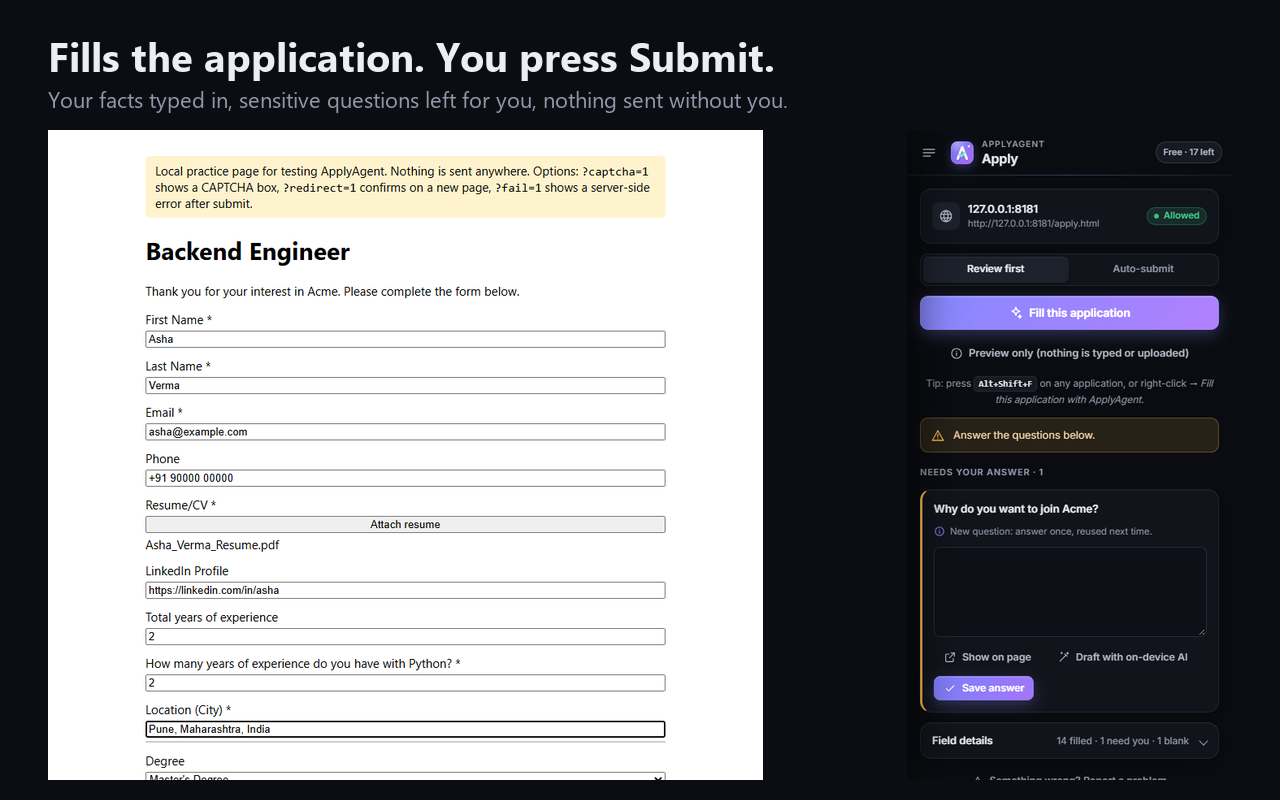
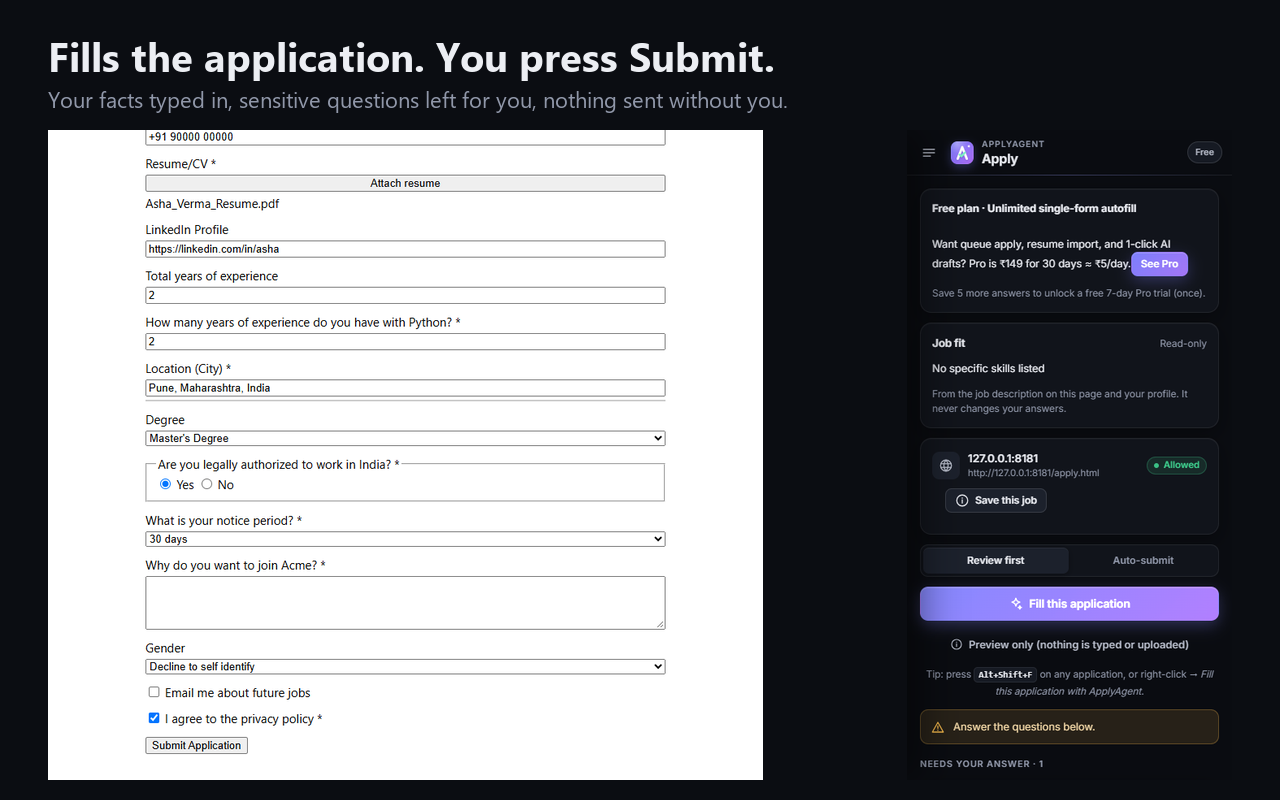
feat(p4/step11): update store package, listing, screenshots, and final test suite verification (Step 11)

Changed region(s): [[0.0938, 0.1562, 0.5312, 0.9688], [0.7188, 0.25, 0.9688, 0.9688], [0.9062, 0.1875, 0.9375, 0.2188]]

diff --git a/src/content/classify.ts b/src/content/classify.ts
@@ -6,7 +6,7 @@ import {
 } from "../shared/types";
 import { bestOption, normalize, sameQuestionScore, yesNoOption } from "../shared/text";
 import { parseRequirement } from "../shared/requirements";
-import { hasExceptionClause, isCompanyOrPlaceSpecific, questionPolarity, sameScreeningQuestion } from "../shared/screening";
+import { hasExceptionClause, isCompanyOrPlaceSpecific, questionPolarity, sameScreeningQuestion, screeningKey } from "../shared/screening";
 import { factDecision, hasConfirmedApplication, HEARD_ABOUT, isAppliedBeforeQuestion, isStartImmediatelyQuestion, isPreviousEmployeeQuestion, previousEmployerAnswer, isWorkModeQuestion, workModeAnswer, isTravelQuestion, travelAnswer, isLanguageQuestion, languageAnswer, skillsExperienceAnswer, type PageFacts } from "./facts";
 
 /** Secrets and one-time codes: payment cards, passwords, PINs, one-time codes, security questions, captchas and
@@ -44,7 +44,7 @@ const SENSITIVE: Array<[SensitiveTopic, RegExp]> = [
   ["veteran", /veteran|military|armed forces/],
   ["accommodation", /\baccommodat|ajustements?|adjustments? (to|during|for)|recursos ou adaptacoes|necessidade de acessibilidade/],
   ["disability", /disabilit|behinderung|schwerbehindert|handicap|discapacidad|deficiencia|disabile/],
-  ["age", /geburtsdatum|\balter\b|date de naissance|fecha de nacim(i)?ento|\bedad\b|data de nascimento|\bidade\b|data di nascita|geboortedatum|date of birth|\bdob\b|\bage\b|birth ?date|18 years of age|18 years old|over the age of 18|current age|how old are you|what is your age/],
+  ["age", /geburtsdatum|\balter\b|date de naissance|fecha de nacim(i)?ento|\bedad\b|data de nascimento|\bidade\b|data di nascita|geboortedatum|date of birth|\bdob\b|\bage\b|birth ?date|18 years of age|18 years old|over the age of 18|18 or older|current age|how old are you|what is your age/],
   ["criminal", /vorstrafe|fuhrungszeugnis|casier judiciaire|antecedentes penales|antecedentes criminais|casellario|convict|criminal|felony|background check/],
   ["consent", /datenschutz|einwilligung|ich (stimme|akzeptiere|bestatige|willige)|\bj accepte\b|je (certifie|consens|confirme)|confidentialite|\bacepto\b|consiento|privacidad|\baceito\b|\bconcordo\b|privacidade|\bacconsento\b|ik ga akkoord|\brgpd\b|\bdsgvo\b|\bi (certify|agree|acknowledge|consent|confirm|understand)\b|privacy (policy|notice)|terms (of|and)|data processing|gdpr/],
 ];
@@ -243,16 +243,19 @@ export function findAnswer(
     }
 
     // 2. Number trap: match numbers/years/hours
-    const reqEntry = parseRequirement(entry.question);
-    const reqLabel = parseRequirement(label);
-    if (reqEntry && reqLabel) {
-      if (reqEntry.unit !== reqLabel.unit || reqEntry.min !== reqLabel.min || reqEntry.max !== reqLabel.max) continue;
-    } else if ((reqEntry && !reqLabel) || (!reqEntry && reqLabel)) {
-      continue;
-    } else {
-      const numsEntry = (entry.question.match(/\b\d+\b/g) || []).join(",");
-      const numsLabel = (label.match(/\b\d+\b/g) || []).join(",");
-      if (numsEntry && numsLabel && numsEntry !== numsLabel) continue;
+    const isAgeQuestion = screeningKey(entry.question) === "age_18" && screeningKey(label) === "age_18";
+    if (!isAgeQuestion) {
+      const reqEntry = parseRequirement(entry.question);
+      const reqLabel = parseRequirement(label);
+      if (reqEntry && reqLabel) {
+        if (reqEntry.unit !== reqLabel.unit || reqEntry.min !== reqLabel.min || reqEntry.max !== reqLabel.max) continue;
+      } else if ((reqEntry && !reqLabel) || (!reqEntry && reqLabel)) {
+        continue;
+      } else {
+        const numsEntry = (entry.question.match(/\b\d+\b/g) || []).join(",");
+        const numsLabel = (label.match(/\b\d+\b/g) || []).join(",");
+        if (numsEntry && numsLabel && numsEntry !== numsLabel) continue;
+      }
     }
 
     // Degree level check (Bachelor's vs Master's vs PhD / Doctorate vs GED)
@@ -471,6 +474,9 @@ export function profileKeyFor(field: FieldDescriptor): ProfileKey | "fullName" |
 }
 
 export function decide(field: FieldDescriptor, profile: Profile, answers: AnswerEntry[], page?: PageFacts): Decision {
+  if (field.translatedLabel) {
+    field = { ...field, label: field.translatedLabel, originalLabel: field.label };
+  }
   const topic = sensitiveTopic(field);
   // Identity numbers, secrets and signatures: the user types them on the page; optional ones stay blank. Checked
   // before anything reads the answer bank, so a stored answer can never be filled into one.
@@ -490,7 +496,12 @@ export function decide(field: FieldDescriptor, profile: Profile, answers: Answer
           val = yesNoOption(field.options, entry.answer) ?? bestOption(field.options, entry.answer);
         }
       }
-      if (val) return { kind: "answer", value: val, question: entry.question, reused: true };
+      if (val) {
+        const isExact = normalize(entry.question) === normalize(field.label);
+        return isExact
+          ? { kind: "answer", value: val, question: entry.question }
+          : { kind: "answer", value: val, question: entry.question, reused: true };
+      }
     }
     const quick = factDecision(field, profile, "notice_period", page);
     return quick ?? { kind: "ask", reason: "sensitive", topic: "notice_period" };
@@ -517,7 +528,10 @@ export function decide(field: FieldDescriptor, profile: Profile, answers: Answer
         if (match) val = match;
         else return { kind: "ask", reason: "unknown" };
       }
-      return { kind: "answer", value: val, question: entry.question, reused: true };
+      const isExact = normalize(entry.question) === normalize(field.label);
+      return isExact
+        ? { kind: "answer", value: val, question: entry.question }
+        : { kind: "answer", value: val, question: entry.question, reused: true };
     }
     // The user's quick answers, only where the question clearly is that question (see facts.ts).
     const someoneElse = OTHER_PERSON.test(normalize(field.label)) || SOMEONE_ELSES.test(field.label)

diff --git a/src/sidepanel/index.ts b/src/sidepanel/index.ts
@@ -535,8 +535,8 @@ interface CardContext {
 }
 
 const NEVER_TEXT: Record<string, string> = {
-  identity: "ID numbers: enter yourself on page.",
-  signature: "Signature: please sign on the page.",
+  identity: "never stores or types ID numbers",
+  signature: "never signs for you",
 };
 
 function questionCard(r: FieldResult, ctx: CardContext): HTMLDivElement {
@@ -547,7 +547,7 @@ function questionCard(r: FieldResult, ctx: CardContext): HTMLDivElement {
   const appliedBefore = isAppliedBeforeQuestion(r.field.label);
   const onPageOnly = youOnly || upload || appliedBefore;
   const why = youOnly ? NEVER_TEXT[topic!]!
-    : upload ? "Attach this file on the page."
+    : upload ? "Attach this file yourself on page."
       : appliedBefore ? "Company-specific: answer on the page."
         : sensitive ? "Sensitive question: only you answer this."
           : r.decision.kind === "ask" && r.decision.reason === "missing_profile_value" ? "Missing from your saved profile."
@@ -2137,13 +2137,13 @@ async function renderPlan(): Promise<void> {
     meter.style.width = "100%";
     meter.parentElement!.classList.remove("low");
   } else {
-    $("plan-status").textContent = `Free · ${left} of ${FREE_MONTHLY_SUBMISSIONS} applications left this month`;
-    pill.textContent = `Free · ${left} left`;
+    $("plan-status").textContent = "Free · Unlimited single-form autofill";
+    pill.textContent = "Free";
     pill.className = "plan-pill";
-    badge.textContent = left ? "Free" : "Limit reached";
-    badge.className = `chip ${left ? "" : "warn"}`;
-    meter.style.width = `${(left / FREE_MONTHLY_SUBMISSIONS) * 100}%`;
-    meter.parentElement!.classList.toggle("low", left <= 5);
+    badge.textContent = "Free";
+    badge.className = "chip";
+    meter.style.width = "100%";
+    meter.parentElement!.classList.remove("low");
   }
   $("buy-row").hidden = !licensingConfigured();
   const { licenseKey } = await chrome.storage.local.get("licenseKey");

diff --git a/e2e/queue.spec.ts b/e2e/queue.spec.ts
@@ -60,18 +60,13 @@ test("a job that needs the user keeps its tab open with a clear note", async ({ 
   expect(context.pages().some((p) => p.url().includes("apply.html"))).toBe(true);
 });
 
-test("the free plan stops at 20 applications a month and says so", async ({ ext, context }) => {
+test("the free plan gates background queue behind Pro and says so", async ({ ext, context }) => {
   await setup(ext, ANSWERS);
-  const thisMonth = new Date().toISOString();
-  await setStorage(ext, {
-    applications: Array.from({ length: 20 }, (_, i) => ({
-      id: `old${i}`, url: `https://example${i}.com/job`, platform: "generic", jobTitle: "Old", status: "applied_confirmed", createdAt: thisMonth,
-    })),
-  });
+  await setStorage(ext, { license: null });
   await send(ext, { type: "QUEUE_ADD", jobs: [{ url: `${BASE}/apply.html`, title: "Backend Engineer", company: "Acme" }] });
   await send(ext, { type: "QUEUE_START" });
   await expect.poll(async () => (await getStorage<QueueItem[]>(ext, "queue"))?.[0]?.note ?? "", { timeout: 15_000 })
-    .toMatch(/free plan limit/i);
+    .toMatch(/require Pro/i);
   const [item] = await getStorage<QueueItem[]>(ext, "queue");
   expect(item?.status).toBe("queued");
   expect(context.pages().some((p) => p.url().includes("apply.html"))).toBe(false);

diff --git a/e2e/autoopen.spec.ts b/e2e/autoopen.spec.ts
@@ -3,7 +3,7 @@
 
 import type { Page } from "@playwright/test";
 import type { QueueItem } from "../src/shared/types";
-import { ANSWERS, BASE, expect, getStorage, goTo, PROFILE, setStorage, test } from "./fixtures";
+import { ANSWERS, BASE, expect, getStorage, goTo, PROFILE, PRO_LICENSE, setStorage, test } from "./fixtures";
 
 async function pinTo(ext: Page, page: Page): Promise<void> {
   const tabId = await ext.evaluate(async (url) => (await chrome.tabs.query({})).find((t) => t.url === url)!.id!, page.url());
@@ -35,7 +35,7 @@ test("Preview on a job description whose Apply button opens the form on the same
 
 test("the queue opens the application from a job description link", async ({ ext }) => {
   await setStorage(ext, {
-    profile: PROFILE, answers: ANSWERS, settings: { mode: "review", maxParallel: 1, perHostMax: 1, dailyCap: 25, cooldownDays: 30 },
+    profile: PROFILE, answers: ANSWERS, license: PRO_LICENSE, settings: { mode: "review", maxParallel: 1, perHostMax: 1, dailyCap: 25, cooldownDays: 30 },
   });
   await ext.evaluate((url) => chrome.runtime.sendMessage({ type: "QUEUE_ADD", jobs: [{ url, title: "Data Engineer", company: "Acme" }] }), `${BASE}/job.html`);
   await ext.evaluate(() => chrome.runtime.sendMessage({ type: "QUEUE_START" }));

diff --git a/src/sidepanel/quick-answers.ts b/src/sidepanel/quick-answers.ts
@@ -74,7 +74,7 @@ export async function mountQuickAnswers(
   }
 
   function render(): void {
-    container.innerHTML = "";
+    container.replaceChildren();
 
     const q = QUICK_QUESTIONS[currentIndex];
     if (!q) return;
@@ -132,7 +132,11 @@ export async function mountQuickAnswers(
     const whyEl = document.createElement("p");
     whyEl.className = "hint wizard-why";
     whyEl.style.cssText = "font-size: 12px; color: var(--text-2, #94a3b8); margin-bottom: 16px;";
-    whyEl.innerHTML = `<span class="badge" style="background: var(--surface-3, #2a2e39); padding: 2px 6px; border-radius: 4px; font-weight: 500; margin-right: 6px; color: var(--text, #f1f5f9);">Why we ask</span>${q.why}`;
+    const whyBadge = document.createElement("span");
+    whyBadge.className = "badge";
+    whyBadge.style.cssText = "background: var(--surface-3, #2a2e39); padding: 2px 6px; border-radius: 4px; font-weight: 500; margin-right: 6px; color: var(--text, #f1f5f9);";
+    whyBadge.textContent = "Why we ask";
+    whyEl.append(whyBadge, document.createTextNode(q.why));
 
     body.append(promptEl, whyEl);
 

diff --git a/e2e/round3.spec.ts b/e2e/round3.spec.ts
@@ -2,7 +2,7 @@
  * (the test build allows only 127.0.0.1 and localhost). */
 
 import type { Page } from "@playwright/test";
-import { ANSWERS, BASE, expect, goTo, PROFILE, runIn, setStorage, test } from "./fixtures";
+import { ANSWERS, BASE, expect, goTo, PROFILE, PRO_LICENSE, runIn, setStorage, test } from "./fixtures";
 
 const NOT_ALLOWED = "http://127.0.0.2:8181";
 
@@ -129,7 +129,7 @@ test("resume autofill: the resume goes first, the site's own parsing is waited f
 
 test("the queue carries a page-per-step application to its last step", async ({ ext, context }) => {
   await setStorage(ext, {
-    profile: PROFILE, answers: ANSWERS, settings: { mode: "review", maxParallel: 1, perHostMax: 1, dailyCap: 25, cooldownDays: 30 },
+    profile: PROFILE, answers: ANSWERS, license: PRO_LICENSE, settings: { mode: "review", maxParallel: 1, perHostMax: 1, dailyCap: 25, cooldownDays: 30 },
   });
   await ext.evaluate(() => chrome.runtime.sendMessage({
     type: "QUEUE_ADD", jobs: [{ url: "http://127.0.0.1:8181/step1.html", title: "Data Engineer", company: "Acme" }],

diff --git a/e2e/sidepanel.spec.ts b/e2e/sidepanel.spec.ts
@@ -65,7 +65,7 @@ test("answers: page text is shown as text, never as markup (no script injection 
 
 test("plan: free allowance is shown", async ({ ext }) => {
   await goTo(ext, "profile");
-  await expect(ext.locator("#plan-status")).toContainText("Free · 20 of 20 applications left this month");
+  await expect(ext.locator("#plan-status")).toContainText("Free · Unlimited single-form autofill");
 });
 
 test("narrow side panel: the drawer slides in, is keyboard friendly, and closes with Esc", async ({ ext }) => {
@@ -102,6 +102,7 @@ test("apply flow through the panel's own buttons: fill, answer in the panel, sub
   await expect(ext.locator("#page-access")).toHaveText("Allowed");
 
   await ext.locator("#run").click();
+  await expect(ext.locator("#status")).not.toHaveText(/Reading the form/, { timeout: 30_000 });
   await expect(ext.locator("#status")).toContainText("Answer the questions below");
   const question = ext.locator(".question", { hasText: "Are you legally authorized to work in India?" });
   await expect(question).toContainText("Sensitive");

diff --git a/e2e/extreme.spec.ts b/e2e/extreme.spec.ts
@@ -1,7 +1,7 @@
 /** Extreme cases in real Chromium, through the panel's own UI. */
 
 import type { QueueItem } from "../src/shared/types";
-import { ANSWERS, BASE, expect, getStorage, goTo, OTHER_SITE, PROFILE, setStorage, test } from "./fixtures";
+import { ANSWERS, BASE, expect, getStorage, goTo, OTHER_SITE, PROFILE, PRO_LICENSE, setStorage, test } from "./fixtures";
 
 test("hard form: never types ID numbers or signatures, flags a wrong pre-fill, and shows fields on the page", async ({ ext, context }) => {
   await setStorage(ext, { profile: PROFILE, answers: [] });
@@ -39,6 +39,7 @@ test("questions inbox: one question shared by two waiting jobs is answered once 
   await setStorage(ext, {
     profile: PROFILE,
     answers: ANSWERS.filter((a) => a.question !== missing),
+    license: PRO_LICENSE,
     settings: { mode: "auto", maxParallel: 2, perHostMax: 2, dailyCap: 25, cooldownDays: 30 },
   });
   await ext.evaluate((m) => chrome.runtime.sendMessage(m), {

diff --git a/src/shared/license.ts b/src/shared/license.ts
@@ -178,6 +178,9 @@ export async function maybeUnlockTrial(now = new Date()): Promise<ProTrial | nul
 // --- storage & server -------------------------------------------------------------------------------
 export async function currentLicense(now = new Date()): Promise<LicensePayload | null> {
   const { license, proTrial } = await chrome.storage.local.get(["license", "proTrial"]);
+  if (license && typeof license === "object" && "plan" in license) {
+    return license as LicensePayload;
+  }
   const paid = typeof license === "string" ? await verifyLicense(license, LICENSE_PUBLIC_JWK, now) : null;
   if (paid) return paid;
   // The one-time 7-day trial counts as Pro while it lasts.

diff --git a/e2e/fixtures.ts b/e2e/fixtures.ts
@@ -68,8 +68,10 @@ export async function getStorage<T = unknown>(ext: Page, key: string): Promise<T
   return ext.evaluate(async (k) => (await chrome.storage.local.get(k))[k], key) as Promise<T>;
 }
 
+export const PRO_LICENSE = { key: "E2E-PRO-KEY", plan: "pro" as const, exp: 9999999999 };
+
 export async function setup(ext: Page, answers: AnswerEntry[] = []): Promise<void> {
-  await setStorage(ext, { profile: PROFILE, answers });
+  await setStorage(ext, { profile: PROFILE, answers, license: PRO_LICENSE });
 }
 
 /** Run the agent in the tab showing `page`, the same way the side panel does (inject + message). */

diff --git a/src/content/extract.ts b/src/content/extract.ts
@@ -575,10 +575,7 @@ function translateExtractedFields(fields: ExtractedField[], root: ParentNode): v
     const inspected = inspectAndTranslateField(field.descriptor.label, field.descriptor.options, detected);
     if (inspected.label !== field.descriptor.label) {
       field.descriptor.originalLabel = field.descriptor.label;
-      field.descriptor.label = inspected.label;
-    }
-    if (detected !== "unknown" && field.descriptor.options.length) {
-      field.descriptor.options = translateOptions(field.descriptor.options, detected);
+      field.descriptor.translatedLabel = inspected.label;
     }
   }
 }

diff --git a/test/screening.test.ts b/test/screening.test.ts
@@ -158,6 +158,7 @@ describe("screening pre-answers: yes/no choice field getting exact option", () =
       kind: "answer",
       value: "Yes, I hold a valid driver's license",
       question: "Do you have a valid driver's license?",
+      reused: true,
     });
   });
 
@@ -181,6 +182,7 @@ describe("screening pre-answers: yes/no choice field getting exact option", () =
       kind: "answer",
       value: "No, I am not subject to any non-compete",
       question: "Are you bound by a non-compete agreement?",
+      reused: true,
     });
   });
 
